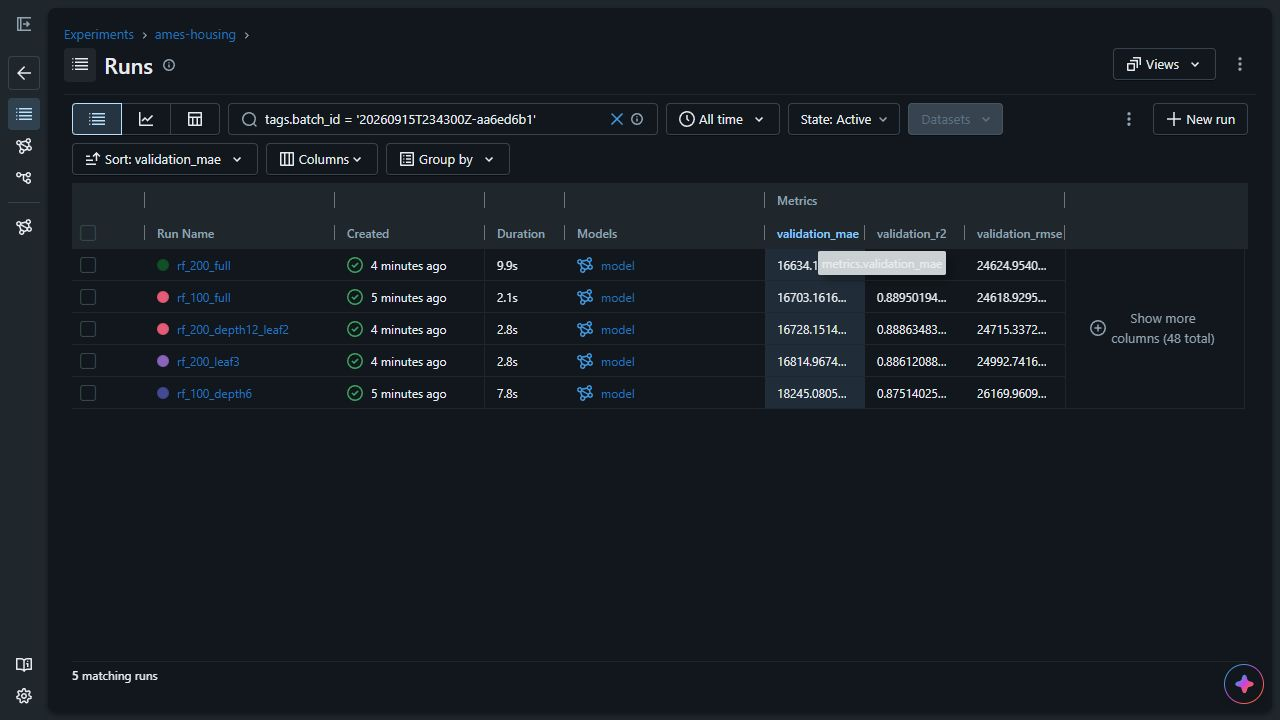
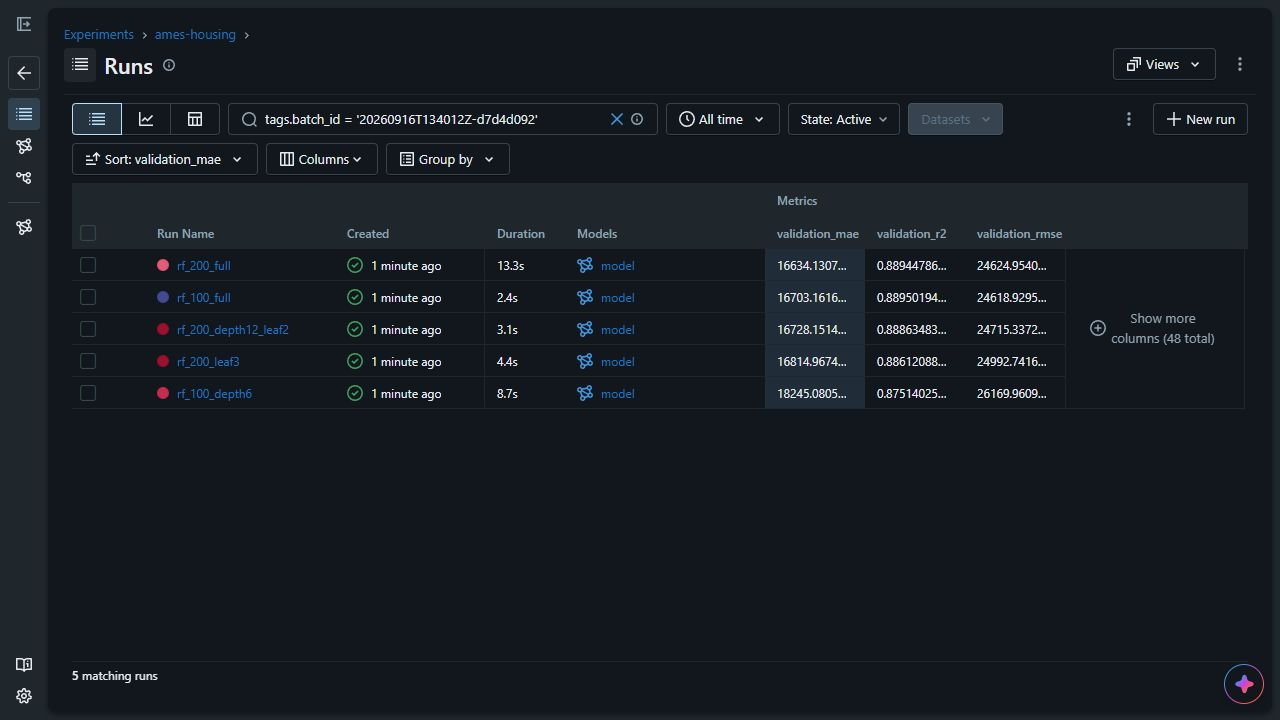
Refresh submission evidence after runtime and serializer verification

diff --git a/PROJECT_SUMMARY.md b/PROJECT_SUMMARY.md
@@ -16,7 +16,7 @@ Evidence is recorded in [the experiment summary](reports/experiment_summary.json
 
 ### Final verification
 
-A fresh clone of the public repository downloaded the release attachment without credentials, verified its checksums, restored the dataset with DVC, and passed all 18 tests on Windows. Both monitoring scenarios returned the expected exit codes. The [GitHub Actions run](https://github.com/MichaelMartiradonna/ames-housing-mlops/actions/runs/35099450327) independently installed dependencies and restored data on separate Ubuntu runners; testing and gated training both passed. Its saved test results and model metrics matched the documented outcomes.
+A fresh clone of the public repository downloaded the release attachment without credentials, verified its checksums, restored the dataset with DVC, and passed all 18 tests on Windows. Both monitoring scenarios returned the expected exit codes. The [GitHub Actions run](https://github.com/MichaelMartiradonna/ames-housing-mlops/actions/runs/35103395139) independently installed dependencies and restored data on separate Ubuntu runners; testing and gated training both passed with zero workflow annotations. Its saved test results and model metrics matched the documented outcomes. After the serializer update, all five local experiments were recreated with unchanged metrics and refreshed model artifacts.
 
 The final requirements review found no outstanding required components. Documentation links, data and model exclusions, configuration use, and decision comments were checked. The implementation remains within the agreed scope; the recommendations below are potential extensions.
 

diff --git a/README.md b/README.md
@@ -11,7 +11,7 @@ The objective is reliable model development: identifiable data versions, compara
 - Selected model: 200-tree random forest, unlimited depth, minimum leaf size 1.
 - Held-out test results: **MAE $17,773; RMSE $30,215; R² 0.886**, passing both planned acceptance gates.
 - **18 passing tests**, including saved-model reload with missing values and an unseen category.
-- [Successful GitHub Actions run](https://github.com/MichaelMartiradonna/ames-housing-mlops/actions/runs/35099450327): tests and gated training passed on separate Ubuntu runners.
+- [Successful GitHub Actions run](https://github.com/MichaelMartiradonna/ames-housing-mlops/actions/runs/35103395139): tests and gated training passed on separate Ubuntu runners, with zero workflow annotations.
 - Drift control: **0 of 14** predictors; simulated shift: **5 of 14 (35.71%)**, correctly returning an alert above 30%.
 
 Full results and their limits are documented in [PROJECT_SUMMARY.md](PROJECT_SUMMARY.md).

diff --git a/CHECKLIST.md b/CHECKLIST.md
@@ -39,7 +39,7 @@ All required project components were verified on September 16, 2026. Supporting 
 - [x] Test job installs dependencies, restores data, and runs the full suite.
 - [x] Dependent training job installs dependencies, restores data, trains, and enforces thresholds.
 - [x] Workflow artifacts preserve test and training evidence.
-- [x] [Successful complete pipeline](https://github.com/MichaelMartiradonna/ames-housing-mlops/actions/runs/35099450327) visible in the Actions history; both jobs passed and retained their artifacts.
+- [x] [Successful complete pipeline](https://github.com/MichaelMartiradonna/ames-housing-mlops/actions/runs/35103395139) visible in the Actions history; both jobs passed, retained their artifacts, and produced zero workflow annotations.
 
 ## Drift monitoring
 
